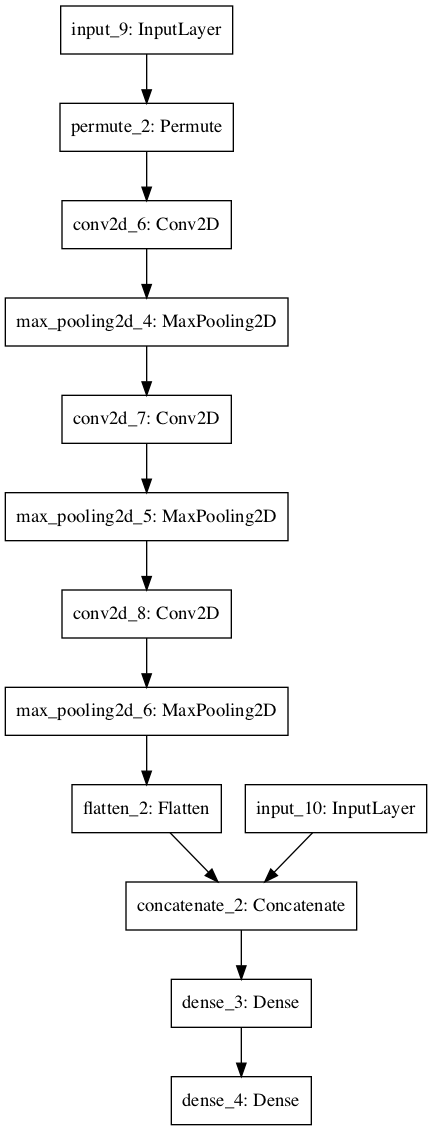
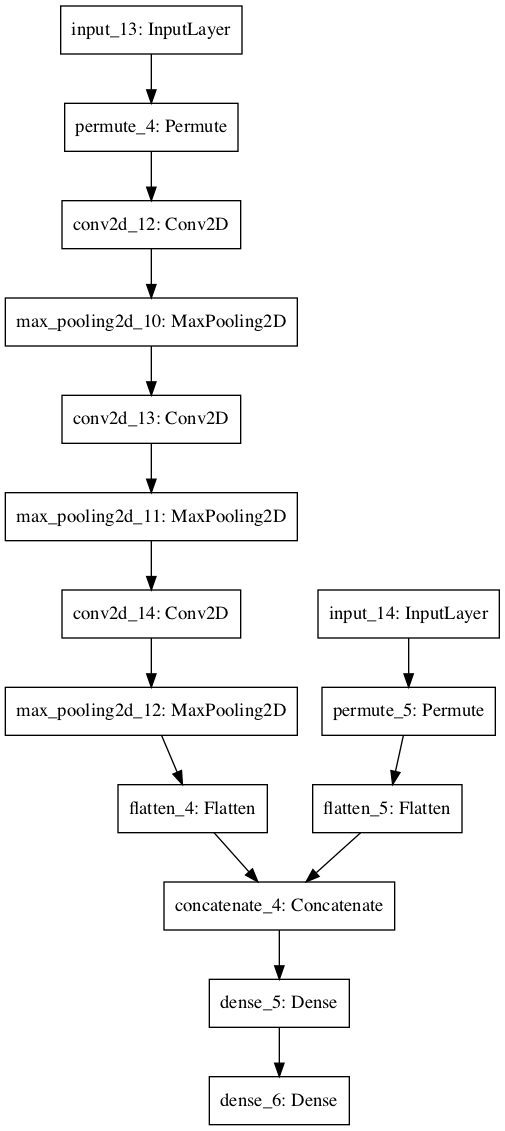
debugging process_batch

diff --git a/sample_agent.py b/sample_agent.py
@@ -61,9 +61,10 @@ class Agent(object):
         x1 = MaxPool2D()(x1)
         # x12 = Concatenate(axis=-1)([x1,vec_input])
         x1 = Flatten()(x1)
-        x2 = Flatten()(vec_input)
+        x2 = Permute((2,1))(vec_input)
+        x2 = Flatten()(x2)
+        # x12 = Concatenate(axis=-1)([x1,x2])
         x12 = Concatenate(axis=-1)([x1,x2])
-        # x12 = Concatenate(axis=-1)([x1,vec_input])
         x12 = Dense(256, activation='relu')(x12)
         output = Dense(self.dim_action, activation='tanh')(x12)
         self.model = Model(inputs=[img_input,vec_input],outputs=[output])
